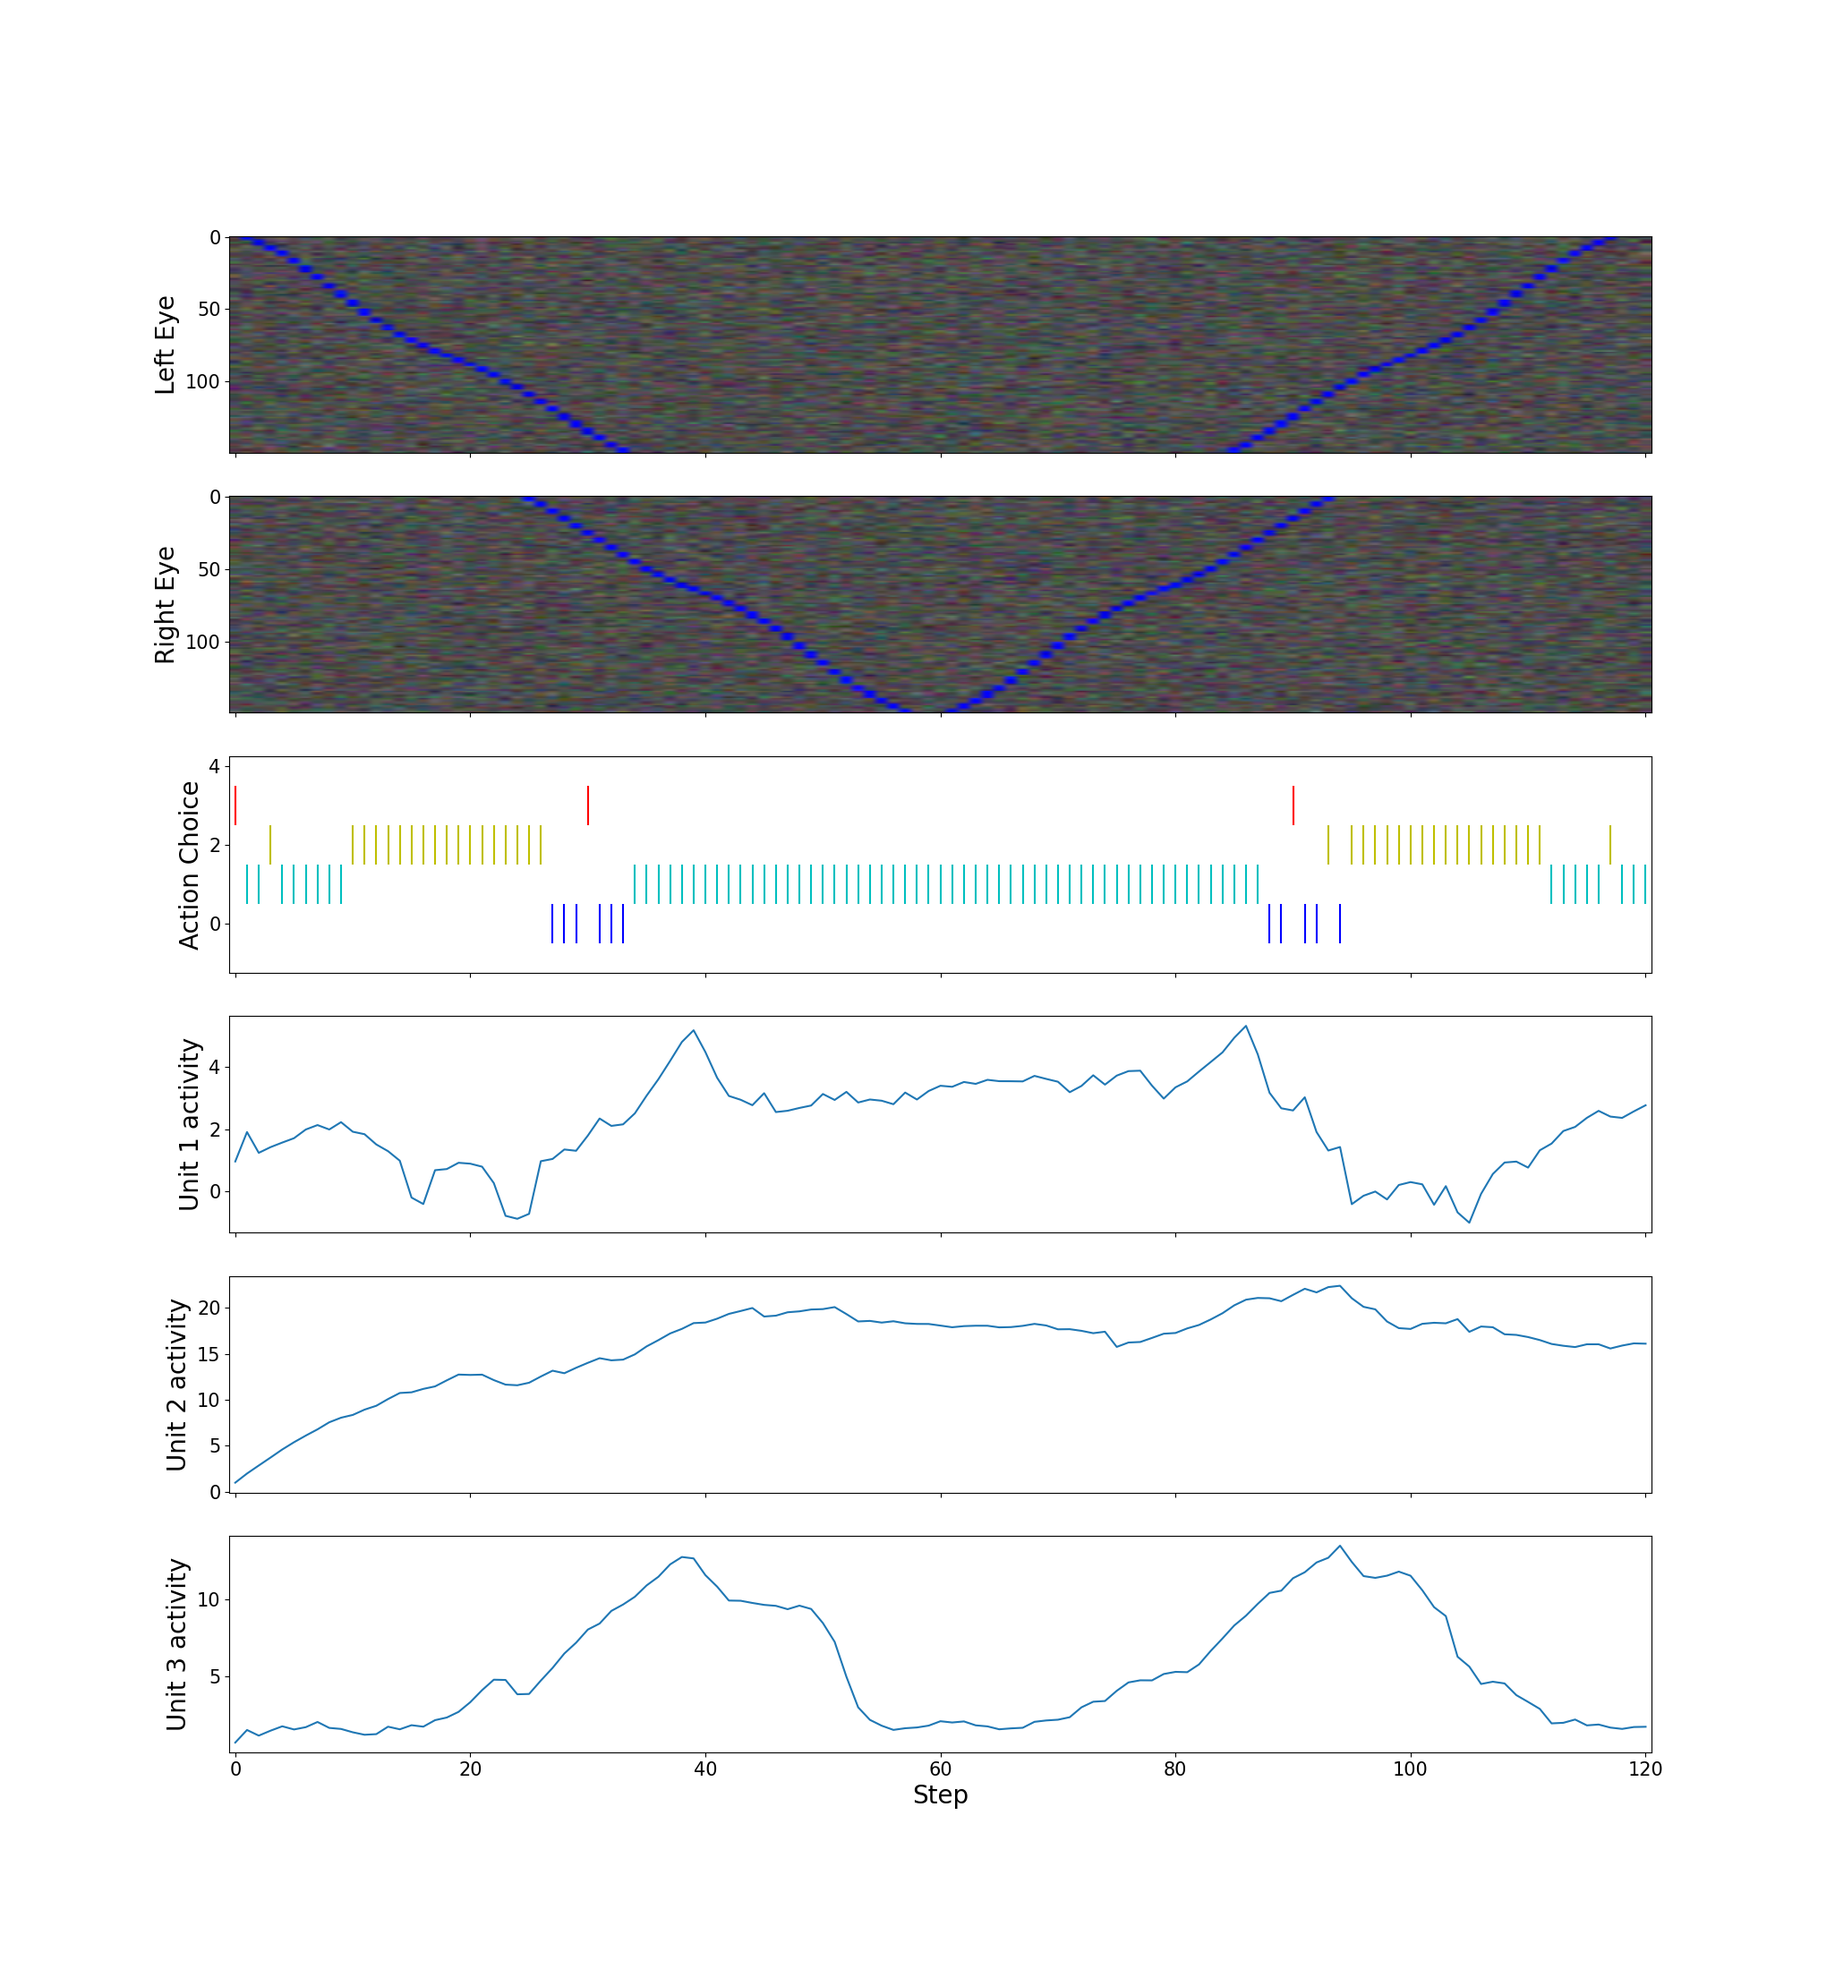
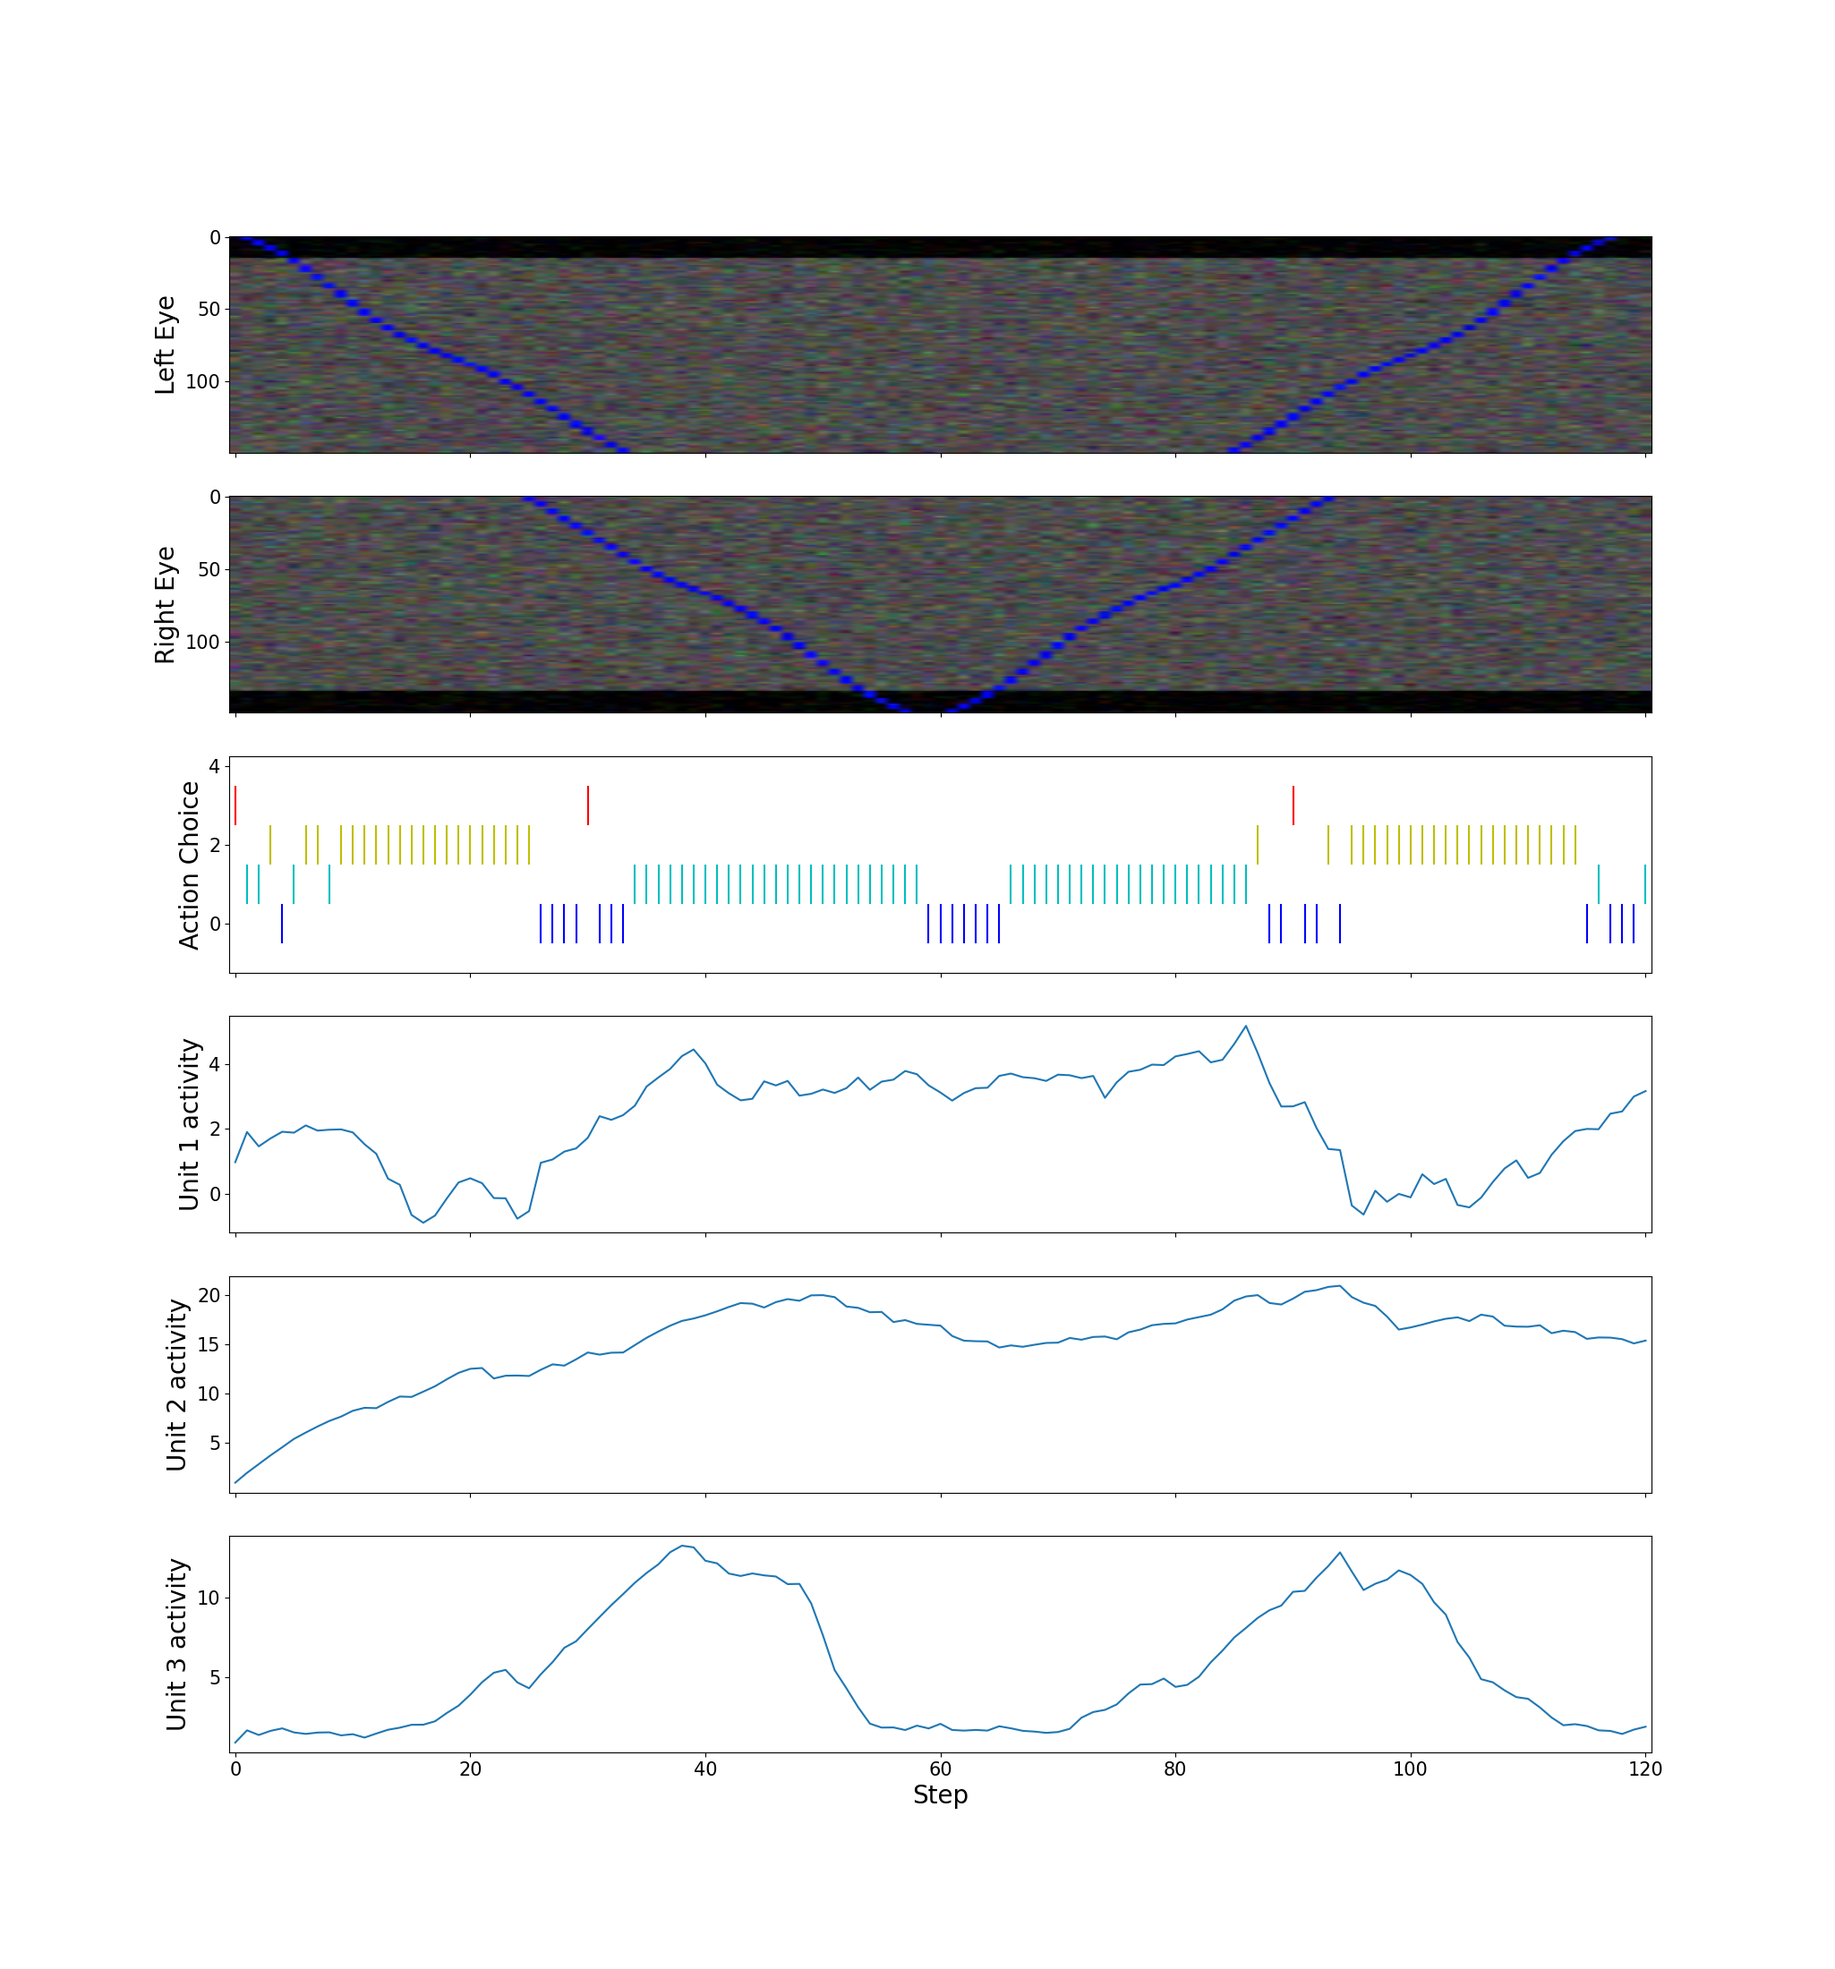
Controlled visual stimulus environment and tethered fish classes updated

diff --git a/Configurations/create_configuration_test_square.py b/Configurations/create_configuration_test_square.py
@@ -14,7 +14,9 @@ env = {'width': 400,  # arena size
        'phys_steps_per_sim_step': 100,  # number of physics time steps per simulation step
 
        'fish_mass': 140.,
-       'fish_size': 5.,
+       'fish_mouth_size': 5.,
+       'fish_head_size': 10.,
+       'fish_tail_length': 50.,
        'eyes_verg_angle': 77.,  # in deg
        'visual_field': 163.,  # single eye angular visual field
        'eyes_biasx': 15,  # distance of eyes from midline
@@ -25,21 +27,29 @@ env = {'width': 400,  # arena size
        'prey_mass': 1.,
        'prey_inertia': 40.,
        'prey_size': 4.,
-       'prey_num': 50,
+       'prey_num': 0,
        'prey_impulse': 0.3,  # impulse each prey receives per step
        'prey_impulse_rate': 0.25,  # fraction of prey receiving impulse per step
+       'prey_escape_impulse': 2,
+       'prey_sensing_distance': 30,
+
+       'sand_grain_mass': 1.,
+       'sand_grain_inertia': 40.,
+       'sand_grain_size': 4.,
+       'sand_grain_num': 0,
+
+       'vegetation_size': 100.,
+       'vegetation_num': 0,
 
        'predator_mass': 10.,
        'predator_inertia': 40.,
-       'predator_size': 30.,
-       'predator_num': 1,
-       'predator_impulse': 2,
-       'predator_impulse_rate': 0.75,
-       'predator_sensing_dist': 120,  # below this distance predators chase the fish
-       'predator_chase_impulse': 0.1,  # impulse during chase
-       'immunity_steps': 65,  # number of steps in the begining of an episode where the fish is immune from predation
+       'predator_size': 100.,
+       'predator_impulse': 1,
+       'immunity_steps': 65,  # number of steps in the beginning of an episode where the fish is immune from predation
+       'distance_from_fish': 200,  # Distance from the fish at which the predator appears.
+       'probability_of_predator': 0.,  # Probability with which the predator appears at each step.
 
-       'dark_light_ratio': 0.0,  # fraction of arena in the dark
+       'dark_light_ratio': 0.3,  # fraction of arena in the dark
        'read_noise_sigma': 5,  # gaussian noise added to photon count
        'photon_ratio': 100,  # expected number of photons for unit brightness
        'bkg_scatter': 0.3,  # base brightness of the background
@@ -61,7 +71,8 @@ env = {'width': 400,  # arena size
        'hunger_inc_tau': 0.1,  # fractional increase in hunger per step of not cathing prey
        'hunger_dec_tau': 0.7,  # fractional decrease in hunger when catching prey
        'capture_basic_reward': 1000,
-       'predator_cost': 100}
+       'predator_cost': 100
+       }
 
 params = {'num_actions': 7,  # size of action space
           'batch_size': 16,  # How many experience traces to use for each training step.

diff --git a/Environment/Fish/tethered_fish.py b/Environment/Fish/tethered_fish.py
@@ -13,23 +13,23 @@ class TetheredFish(Fish):
     def take_action(self, action):
         if action == 0:  # Swim forward
             reward = -self.env_variables['forward_swim_cost']
-            self.shape.color = (0, 1, 0)
+            self.head.color = (0, 1, 0)
         elif action == 1:  # Turn right
             reward = -self.env_variables['routine_turn_cost']
-            self.shape.color = (0, 1, 0)
+            self.head.color = (0, 1, 0)
         elif action == 2:   # Turn left
             reward = -self.env_variables['routine_turn_cost']
-            self.shape.color = (0, 1, 0)
+            self.head.color = (0, 1, 0)
         elif action == 3:   # Capture
             reward = -self.env_variables['capture_swim_cost']
-            self.shape.color = [1, 0, 1]
+            self.head.color = [1, 0, 1]
             self.making_capture = True
         elif action == 4:  # j turn right
             reward = -self.env_variables['j_turn_cost']
-            self.shape.color = [1, 1, 1]
+            self.head.color = [1, 1, 1]
         elif action == 5:  # j turn left
             reward = -self.env_variables['j_turn_cost']
-            self.shape.color = [1, 1, 1]
+            self.head.color = [1, 1, 1]
         elif action == 6:   # do nothing:
             reward = -self.env_variables['rest_cost']
         else:

diff --git a/Environment/controlled_stimulus_environment.py b/Environment/controlled_stimulus_environment.py
@@ -21,7 +21,7 @@ class ProjectionEnvironment(BaseEnvironment):
             self.fish = TetheredFish(self.board, env_variables, self.dark_col)
         else:
             self.fish = Fish(self.board, env_variables, self.dark_col)
-        self.space.add(self.fish.body, self.fish.shape)
+        self.space.add(self.fish.body, self.fish.mouth, self.fish.head, self.fish.tail)
 
         # TODO: Unify in future with other stimuli
         self.prey_positions = {}
@@ -102,8 +102,8 @@ class ProjectionEnvironment(BaseEnvironment):
                 self.board_image.set_data(self.output_frame(activations, internal_state, scale=0.5) / 255.)
                 plt.pause(0.000001)
 
-        observation = np.dstack((self.readings_to_photons(self.fish.left_eye.readings),
-                                 self.readings_to_photons(self.fish.right_eye.readings)))
+        observation = np.dstack((self.fish.readings_to_photons(self.fish.left_eye.readings),
+                                 self.fish.readings_to_photons(self.fish.right_eye.readings)))
 
         return observation, reward, internal_state, done, frame_buffer
 

diff --git a/run.py b/run.py
@@ -10,7 +10,7 @@ if not os.path.exists("./Assay-Output/"):
     os.makedirs("./Assay-Output/")
 
 # TODO: Move whole thing to its own JSON configuration set.
-assay_configuration = [
+controlled_assay_configuration = [
     {
         "Model Name": "base",
         "Environment Name": "test_square",
@@ -19,7 +19,7 @@ assay_configuration = [
         "Priority": 1,
         "Assays": [
             {
-                "assay id": "Visual-Stimulus-Assay-1",
+                "assay id": "Visual-Stimulus-Assay-2",
                 "stimulus paradigm": "Projection",
                 "duration": 121,
                 "fish setup": "Tethered",
@@ -109,5 +109,5 @@ training_configuration = [
     },
 ]
 
-manager = TrialManager(naturalistic_assay_configuration)
+manager = TrialManager(controlled_assay_configuration)
 manager.run_priority_loop()

diff --git a/Analysis-Tools/plot_observation_action_choice_and_activity.py b/Analysis-Tools/plot_observation_action_choice_and_activity.py
@@ -57,7 +57,7 @@ def convert_photons_to_int(obs):
     return new_obs
 
 
-with open("../Assay-Output/base-1/Visual-Stimulus-Assay-1.json", "r") as file:
+with open("../Assay-Output/base-1/Visual-Stimulus-Assay-2.json", "r") as file:
     data = json.load(file)
 
 # rnn_unit_1 = [i["rnn state"][0][0] for i in data]
